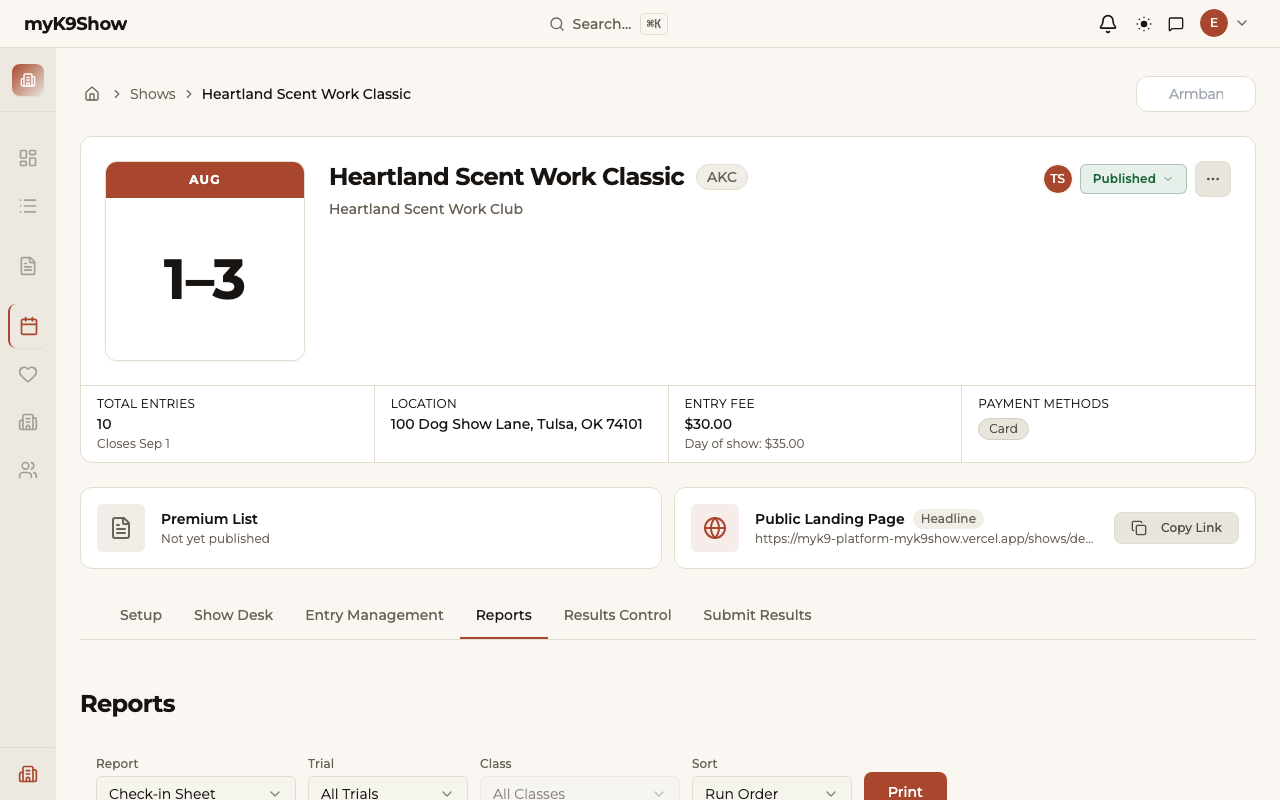
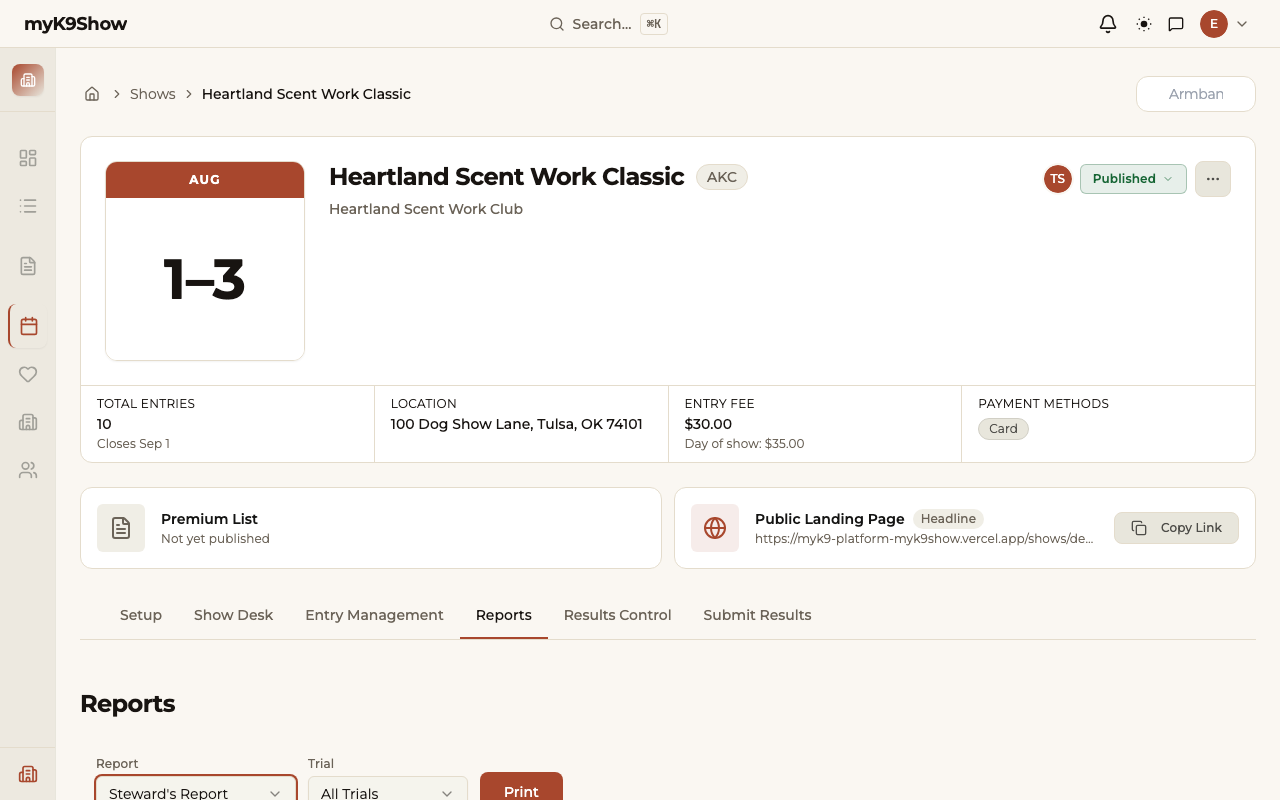
docs(guides): convert placeholders to image links; reshoot 6 wrong screenshots; fix stale shot-list rows
- Convert all 'ready' placeholders in secretary-guide.md to markdown image links (S-01,02,04,06–09,11–16,18,19,22,23)
- Convert all 'ready' placeholders in exhibitor-guide.md to markdown image links (E-01–07,09–12,14)
- Reshoot S-04 (wizard step 3), S-13 (Steward's Report), S-14 (Armband Labels), S-18 (late entry wizard), S-19 (Tools panel), E-14 (Not Checked In label) — previous versions were MD5-duplicate wrong captures
- Fix stale shot-list rows: S-13 Run Order→Steward's Report, S-16 route+description, S-18 route+description, S-19 expected state, E-07 Step 2→Step 1+cart toast
- Update guide prose: Run Order→Steward's Report in reports table; late entry steps (dialog→wizard); Tools panel item list (actual items from S-19)
- Delete 6 untracked debug PNGs left from capture session

diff --git a/docs/user-guides/secretary-guide.md b/docs/user-guides/secretary-guide.md
@@ -25,7 +25,7 @@ When you sign in, you land on the Secretary Dashboard. It shows all your active 
 
 Click any show to open its workbench.
 
-> *[Screenshot S-01: Secretary dashboard — one active Heritage show with entry count badge]*
+![S-01: Secretary dashboard — one active Heritage show with entry count badge](../screenshots/S-01.png)
 
 ---
 
@@ -47,13 +47,13 @@ The wizard walks you through four steps: show details, trial configuration, clas
 
 2. **Step 1 — Show Details.** Enter the show name, sanctioning organization, start and end dates, entry fee, and entry open and close dates. Click **Next**.
 
-   > *[Screenshot S-02: Create Show wizard — Step 1 (show details)]*
+   ![S-02: Create Show wizard — Step 1 (show details)](../screenshots/S-02.png)
 
 3. **Step 2 — Trial Configuration.** Add each trial with its date/time and AKC event number. Click **Add Trial** for each additional trial. Click **Next**.
 
 4. **Step 3 — Class Selection.** For each trial, choose which classes to offer and assign a judge to each class. Click **Next**.
 
-   > *[Screenshot S-04: Create Show wizard — Step 3 (class selection with judge dropdowns)]*
+   ![S-04: Create Show wizard — Step 3 (class selection)](../screenshots/S-04.png)
 
 5. **Step 4 — Review.** Scan the full structure. If anything looks wrong, click **Back** to correct it. When everything is correct, click **Create and Publish**.
 
@@ -68,7 +68,7 @@ Open the show from the Dashboard → click the **Setup** tab → click **Edit** 
 
 After creating your show, you can edit any part of its structure from the **Setup** tab on the Show Workbench.
 
-> *[Screenshot S-06: Show Workbench — Setup tab with readiness signals]*
+![S-06: Show Workbench — Setup tab with readiness signals](../screenshots/S-06.png)
 
 **Edit show details:**
 1. Click the **Setup** tab.
@@ -88,7 +88,7 @@ This is not available in the Setup tab after publication. If you need to add a t
 
 Entry Management is where you act on pending entries, add mail-in entries, and manage your waitlist.
 
-> *[Screenshot S-07: Entry Management — Pending tab with entry cards]*
+![S-07: Entry Management — Pending tab with entry cards](../screenshots/S-07.png)
 
 ### Approving an online entry
 
@@ -98,9 +98,9 @@ Entry Management is where you act on pending entries, add mail-in entries, and m
 
 **To approve many entries at once:** Check the box next to each entry → a sticky action bar appears at the bottom. Click **Approve selected**.
 
-> *[Screenshot S-09: Entry Management — bulk select with sticky approve bar]*
+![S-09: Entry Management — bulk select with sticky approve bar](../screenshots/S-09.png)
 
-> *[Screenshot S-08: Entry Management — three-dot menu open on a single entry card]*
+![S-08: Entry Management — three-dot menu open on a single entry card](../screenshots/S-08.png)
 
 ### Rejecting an entry
 
@@ -140,7 +140,7 @@ When a spot opens (someone scratches or is pulled):
 
 Exhibitors receive the announcement in their myK9Show inbox and as a push notification on their device.
 
-> *[Screenshot S-11: Message Center — compose form with show selected]*
+![S-11: Message Center — compose form with show selected](../screenshots/S-11.png)
 
 ### Send a message to one exhibitor
 
@@ -162,7 +162,7 @@ Messages in myK9Show send push notifications. Email delivery to exhibitors who h
 
 Run these reports before the show to prepare your rings, judges, and stewards.
 
-> *[Screenshot S-12: Reports page — Check-in Sheet selected]*
+![S-12: Reports page — Check-in Sheet selected](../screenshots/S-12.png)
 
 1. Open **Reports** from the Show Workbench sidebar or from the Show Desk.
 2. Select the trial from the dropdown.
@@ -171,14 +171,14 @@ Run these reports before the show to prepare your rings, judges, and stewards.
 | Report | When to run | Who gets it |
 |---|---|---|
 | Check-in Sheet | Morning of show day | Ring steward / check-in table |
-| Run Order | Before each class | Steward, posted at ring |
+| Steward's Report | Before each class | Steward, posted at ring |
 | Scoresheets | Before judges arrive | Each judge |
 | Armband Labels | Before check-in opens | Print on Avery 18262 stock |
 
 4. Print or download the report.
 
-> *[Screenshot S-13: Reports page — Run Order preview]*
-> *[Screenshot S-14: Reports page — Armband Labels]*
+![S-13: Reports page — Steward's Report selected](../screenshots/S-13.png)
+![S-14: Reports page — Armband Labels](../screenshots/S-14.png)
 
 **Note on run order:** The run order shows dog names, handler names, and armband numbers. Volunteer names are not included — those are managed separately outside the app.
 
@@ -188,7 +188,7 @@ Run these reports before the show to prepare your rings, judges, and stewards.
 
 The Show Desk is your headquarters on show day. Check-in, scratches, move-ups, late entries, and announcements are all here.
 
-> *[Screenshot S-15: Show Desk — Show Map with trial expanded and class rows]*
+![S-15: Show Desk — task queue with "Show in progress" banner and Next Best Action](../screenshots/S-15.png)
 
 **Getting there:** From the Show Workbench, click the **Show Desk** tab. On a show running today, the Dashboard will route you here automatically.
 
@@ -211,7 +211,7 @@ There are two different actions depending on the reason:
 3. Click the **trash icon** on the right of the class row → "Remove entry?" dialog appears.
 4. Confirm → the class entry is deleted from records.
 
-> *[Screenshot S-16: Entry Management — "Remove entry?" confirmation dialog]*
+![S-16: Entry Management — "Remove entry?" confirmation dialog](../screenshots/S-16.png)
 
 > **Note:** Use Pulled for a real show-day scratch. Use Remove only for true mistakes (wrong dog, duplicate submission). The dialog text confirms the distinction.
 
@@ -229,12 +229,12 @@ A move-up promotes a qualifying dog to a higher-level class in the same element.
 ### Add a late entry (walk-in)
 
 1. Open the **Tools** panel (button at the top right of the Show Desk).
-2. Click **Late Entry**.
-3. Find or create the exhibitor record.
-4. Select their dog and the class → record the payment method and amount.
-5. Click **Save** → the entry is added and the class count updates.
+2. Click **Add late entry** — the Late Entry registration wizard opens.
+3. Step 1: search for the dog (or create a new dog record).
+4. Steps 2–4: select the class, assign a handler, and record payment.
+5. Confirm → the entry is added and the class count updates.
 
-> *[Screenshot S-18: Show Desk — Late Entry dialog in Tools panel]*
+![S-18: Late Entry registration wizard — Step 1 (Select Dogs)](../screenshots/S-18.png)
 
 ### Enter scores from paper scoresheets
 
@@ -245,13 +245,15 @@ When judges are scoring on paper rather than using the ringside app:
 ### Tools panel
 
 Open the Tools panel from the Show Desk for:
-- **Quick Broadcast** — message all exhibitors in the show
-- **Class Broadcast** — message exhibitors in one class
-- **Show Access Codes** — generate or share the passcode for judge and steward ringside access
-- **Incident Log** — record any show-day incidents
-- **Tasks and Notes** — your personal show-day checklist
+- **Late entries** — add a walk-in entry without leaving Show Desk
+- **Judge hospitality** — track judge meals, breaks, and show-day notes
+- **Incident log** — record any show-day incidents
+- **Delay scripts** — draft calm wording for schedule slips
+- **Access codes** — share judge and ringside entry codes
+- **Volunteers** — track helper assignments and gaps
+- **Tasks and notes** — your personal show-day checklist
 
-> *[Screenshot S-19: Show Desk — Tools panel side sheet with Quick Broadcast and Access Codes visible]*
+![S-19: Show Desk — Tools panel side sheet open](../screenshots/S-19.png)
 
 ---
 
@@ -287,8 +289,8 @@ After results are released, generate the electronic submission file and email it
 
 4. Click **Download XML** to download the submission file.
 
-   > *[Screenshot S-22: Submit Results — submission summary (preflight)]*
-   > *[Screenshot S-23: Submit Results — XML download button]*
+   ![S-22: Submit Results — submission summary (preflight)](../screenshots/S-22.png)
+   ![S-23: Submit Results — XML download button](../screenshots/S-23.png)
 
 5. Email the file to `eresults@akc.org`. Include in your message:
    - Club name
@@ -353,12 +355,12 @@ All shots from `docs/training/screenshot-shot-list.md`. Status as of 2026-06-19:
 | S-10 | § 4 | Waitlist Management page | blocked: seed |
 | S-11 | § 5 | Message Center — compose | ready |
 | S-12 | § 6 | Reports — Check-in Sheet | ready |
-| S-13 | § 6 | Reports — Run Order preview | ready |
+| S-13 | § 6 | Reports — Steward's Report selected | ready |
 | S-14 | § 6 | Reports — Armband Labels | ready |
-| S-15 | § 7 | Show Desk — task queue ("Show in progress", Next Best Action) | ready |
+| S-15 | § 7 | Show Desk — task queue with "Show in progress" banner and Next Best Action | ready |
 | S-16 | § 7 | Entry Management — "Remove entry?" dialog | ready |
 | S-17 | § 7 | Move-up dialog | blocked: seed |
-| S-18 | § 7 | Late Entry dialog | ready |
+| S-18 | § 7 | Late Entry wizard (Step 1: Select Dogs) | ready |
 | S-19 | § 7 | Tools panel | ready |
 | S-20 | § 8 | Results Control — all classes complete | blocked: seed |
 | S-21 | § 8 | Release Results toggle | blocked: seed |

diff --git a/docs/training/screenshot-shot-list.md b/docs/training/screenshot-shot-list.md
@@ -53,13 +53,13 @@ Every screenshot and diagram in final documentation and training materials must 
 | S-10 | Waitlist Management page | `/secretary/waitlist/:showId` | `secretary@myk9t.com` | Desktop | At least one waitlisted entry | § 4 | `blocked: seed` (needs a waitlisted entry) |
 | S-11 | Message Center — compose form | `/secretary/messages` | `secretary@myk9t.com` | Desktop | New message compose panel open, show pre-selected | § 5 Communications | `ready` |
 | S-12 | Reports page — Check-in Sheet selected | `/shows/:showId/reports` | `secretary@myk9t.com` | Desktop | Trial selector showing Heritage trial; Check-in Sheet selected | § 6 Reports | `ready` |
-| S-13 | Reports page — Run Order preview | `/shows/:showId/reports` | `secretary@myk9t.com` | Desktop | Run Order report type selected; preview rendered | § 6 | `ready` |
+| S-13 | Reports page — Steward's Report selected | `/shows/:showId/reports` | `secretary@myk9t.com` | Desktop | Steward's Report type selected; preview rendered | § 6 | `ready` |
 | S-14 | Reports page — Armband Labels | `/shows/:showId/reports` | `secretary@myk9t.com` | Desktop | Armband Labels selected; preview visible | § 6 | `ready` |
 | S-15 | Show Desk — Show Map with class rows | `/shows/:showId?phase=show-desk` | `secretary@myk9t.com` | Desktop | Show Map tab; at least one trial expanded with class rows | § 7 Show Desk | `ready` |
-| S-16 | Show Desk — scratch / pull dialog | `/shows/:showId?phase=show-desk` | `secretary@myk9t.com` | Desktop | Scratch dialog open on an entry row | § 7 | `ready` |
+| S-16 | Entry Management — "Remove entry?" confirmation dialog | `/shows/:showId/entry-management` | `secretary@myk9t.com` | Desktop | "Remove entry?" dialog open on a class row | § 7 | `ready` |
 | S-17 | Show Desk — move-up dialog | `/shows/:showId?phase=show-desk` | `secretary@myk9t.com` | Desktop | Move-up dialog open; target class picker visible | § 7 | `blocked: seed` (needs a move-up-requested entry) |
-| S-18 | Show Desk — late entry dialog | `/shows/:showId?phase=show-desk` | `secretary@myk9t.com` | Desktop | Late Entry dialog open in Tools panel | § 7 | `ready` |
-| S-19 | Show Desk — Tools panel side sheet | `/shows/:showId?phase=show-desk` | `secretary@myk9t.com` | Desktop | Tools panel open; Quick Broadcast, Access Codes, Tasks visible | § 7 | `ready` |
+| S-18 | Late Entry registration wizard — Step 1 (Select Dogs) | `/secretary/register/:showId?source=show-desk&entryMode=late` | `secretary@myk9t.com` | Desktop | Late Entry wizard Step 1 open; dog search field and filters visible | § 7 | `ready` |
+| S-19 | Show Desk — Tools panel side sheet | `/shows/:showId/show-desk` | `secretary@myk9t.com` | Desktop | Tools panel open; Late entries, Access codes, Volunteers visible | § 7 | `ready` |
 | S-20 | Results Control — all classes complete | `/shows/:showId/results-control` | `secretary@myk9t.com` | Desktop | Every class shows all entries with a result; no blank rows | § 8 Results Control | `blocked: seed` (needs a fully-scored show) |
 | S-21 | Results Control — release toggle (Off → On) | `/shows/:showId/results-control` | `secretary@myk9t.com` | Desktop | Release Results toggle in Off position, ready to toggle | § 8 | `blocked: seed` (same as S-20) |
 | S-22 | Submit Results — submission summary (preflight) | `/shows/:showId/submit-results` | `secretary@myk9t.com` | Desktop | Submission summary checklist showing entries ready count | § 9 Submit to AKC | `ready` |
@@ -78,7 +78,7 @@ Every screenshot and diagram in final documentation and training materials must 
 | E-04 | My Dogs page — at least one dog card | `/dogs` | `e2e-exhibitor@test.myk9.com` | Desktop | Dog list with at least one entry | § 3 Add a Dog | `ready` |
 | E-05 | Add Dog form | `/dogs` (Add Dog dialog) | `e2e-exhibitor@test.myk9.com` | Desktop | Add Dog form open with required fields visible | § 3 | `ready` |
 | E-06 | Registration wizard — Step 1 (class selection) | `/shows/:showId/register` | `e2e-exhibitor@test.myk9.com` | Desktop | Class selection step; dog chip visible at top; classes grouped by element/level | § 4 Enter a Show | `ready` |
-| E-07 | Registration wizard — Step 2 (review + payment) | `/shows/:showId/register` | `e2e-exhibitor@test.myk9.com` | Desktop | Review step; dog, class, and fee visible; entry agreement | § 4 | `ready` |
+| E-07 | Registration wizard — Step 1 with class selected + cart toast | `/shows/:showId/register` | `e2e-exhibitor@test.myk9.com` | Desktop | Class selection step; class chip checked; "Added to cart" toast visible | § 4 | `ready` |
 | E-08 | Confirmation receipt | `/checkout/success` | `e2e-exhibitor@test.myk9.com` | Desktop | Success screen with entry confirmed | § 4 | `blocked: seed` (needs a Stripe checkout completion) |
 | E-09 | My Entries — Pending tab with entry card | `/exhibitor/entries` | `e2e-exhibitor@test.myk9.com` | Mobile | At least one entry card in Pending status | § 5 Track Your Entry | `ready` |
 | E-10 | My Entries — Accepted tab with entry card | `/exhibitor/entries` | `e2e-exhibitor@test.myk9.com` | Mobile | At least one entry card in Accepted status | § 5 | `ready` |

diff --git a/docs/user-guides/exhibitor-guide.md b/docs/user-guides/exhibitor-guide.md
@@ -21,7 +21,7 @@ If you're coming from paper entries or mySWT, the main change is that entries, p
 
 No account needed to browse. Go to myK9Show — the shows list is the first thing you see.
 
-> *[Screenshot E-01: Shows list — upcoming shows with "Accepting Entries" and "Closing Soon" badges]*
+![E-01: Shows list — upcoming shows with "Accepting Entries" and "Closing Soon" badges](../screenshots/E-01.png)
 
 Each show card shows the name, sanctioning organization, dates, entry deadline, and status:
 
@@ -33,7 +33,7 @@ Each show card shows the name, sanctioning organization, dates, entry deadline, 
 
 Click any show to open its detail page — trial schedule, classes offered, entry fee, and deadline.
 
-> *[Screenshot E-02: Show detail page — "Enter This Show" button visible]*
+![E-02: Show detail page — "Enter This Show" button visible](../screenshots/E-02.png)
 
 When you're ready to enter, click **Enter This Show**. If you don't have an account yet, you'll be prompted to create one (Section 2).
 
@@ -49,7 +49,7 @@ If this is your first time, you'll need an account before entering a show.
 4. Check your inbox for a confirmation email → click the link to verify your address.
 5. You're signed in and ready to enter.
 
-> *[Screenshot E-03: Sign-up form]*
+![E-03: Sign-up form](../screenshots/E-03.png)
 
 **Next step:** Add your dog before returning to enter the show — the entry wizard requires at least one dog in your profile (Section 3).
 
@@ -64,7 +64,7 @@ Before entering a show, your dog needs a profile in your account.
 1. Go to **My Dogs** in the navigation.
 2. Click **Add Dog**.
 
-> *[Screenshot E-05: Add Dog form — required fields visible]*
+![E-05: Add Dog form — required fields visible](../screenshots/E-05.png)
 
 3. Fill in:
    - **Call name** (required) — the name used on the scoresheet
@@ -73,7 +73,7 @@ Before entering a show, your dog needs a profile in your account.
 4. Under **Additional**: enter the AKC or UKC registration number, registered name, and breed.
 5. Click **Create Dog**.
 
-> *[Screenshot E-04: My Dogs list — dog card visible]*
+![E-04: My Dogs list — dog card visible](../screenshots/E-04.png)
 
 Your dog now appears in your list and is ready to enter shows.
 
@@ -90,14 +90,14 @@ Your dog now appears in your list and is ready to enter shows.
 
 **Step 1 — Select your class:**
 
-> *[Screenshot E-06: Registration wizard — Step 1 (class selection; dog chip visible at top)]*
+![E-06: Registration wizard — Step 1 (class selection; dog chip visible at top)](../screenshots/E-06.png)
 
 3. Classes are grouped by element (Container, Exterior, Interior, Buried) and level. Select the class or classes you want to enter.
 4. Click **Next**.
 
 **Step 2 — Review and pay:**
 
-> *[Screenshot E-07: Registration wizard — Step 1 with class selected (Container Novice A chip checked, "Added to cart" toast visible)]*
+![E-07: Registration wizard — Step 1 with class selected + cart toast](../screenshots/E-07.png)
 
 5. Review: dog, class, and entry fee.
 6. Read and accept the entry agreement → click **Pay with Card**.
@@ -118,10 +118,10 @@ Your dog now appears in your list and is ready to enter shows.
 
 Go to **My Shows** in the navigation to see all your entries.
 
-> *[Screenshot E-11: My Shows — show card with status badge and entry details]*
+![E-11: My Shows — show card with status badge and entry details](../screenshots/E-11.png)
 
-> *[Screenshot E-09: My Shows — Pending entry card]*
-> *[Screenshot E-10: My Shows — Accepted entry card]*
+![E-09: My Shows — Pending entry card](../screenshots/E-09.png)
+![E-10: My Shows — Accepted entry card](../screenshots/E-10.png)
 
 **Status meanings:**
 
@@ -146,7 +146,7 @@ Once the secretary publishes the run order, a **View run order** button appears 
 2. On your entry card, tap **View run order**.
 3. The Classes tab opens showing your class in run order.
 
-> *[Screenshot E-12: Show detail page — Classes tab with run order and armband numbers]*
+![E-12: Show detail page — Classes tab with run order and armband numbers](../screenshots/E-12.png)
 
 The run order shows dog names, handler names, and armband numbers. **Armband numbers** are assigned by the secretary and may not appear until close to show day.
 
@@ -172,7 +172,7 @@ Tap the banner to jump to your entry for that show.
 
 1. On your entry card, tap **Check In**.
 
-> *[Screenshot E-14: Entry card — "Not Checked In" button visible]*
+![E-14: Entry card — "Not Checked In" status on class row](../screenshots/E-14.png)
 
 2. The dialog confirms your class and armband number → tap **Confirm**.
 
